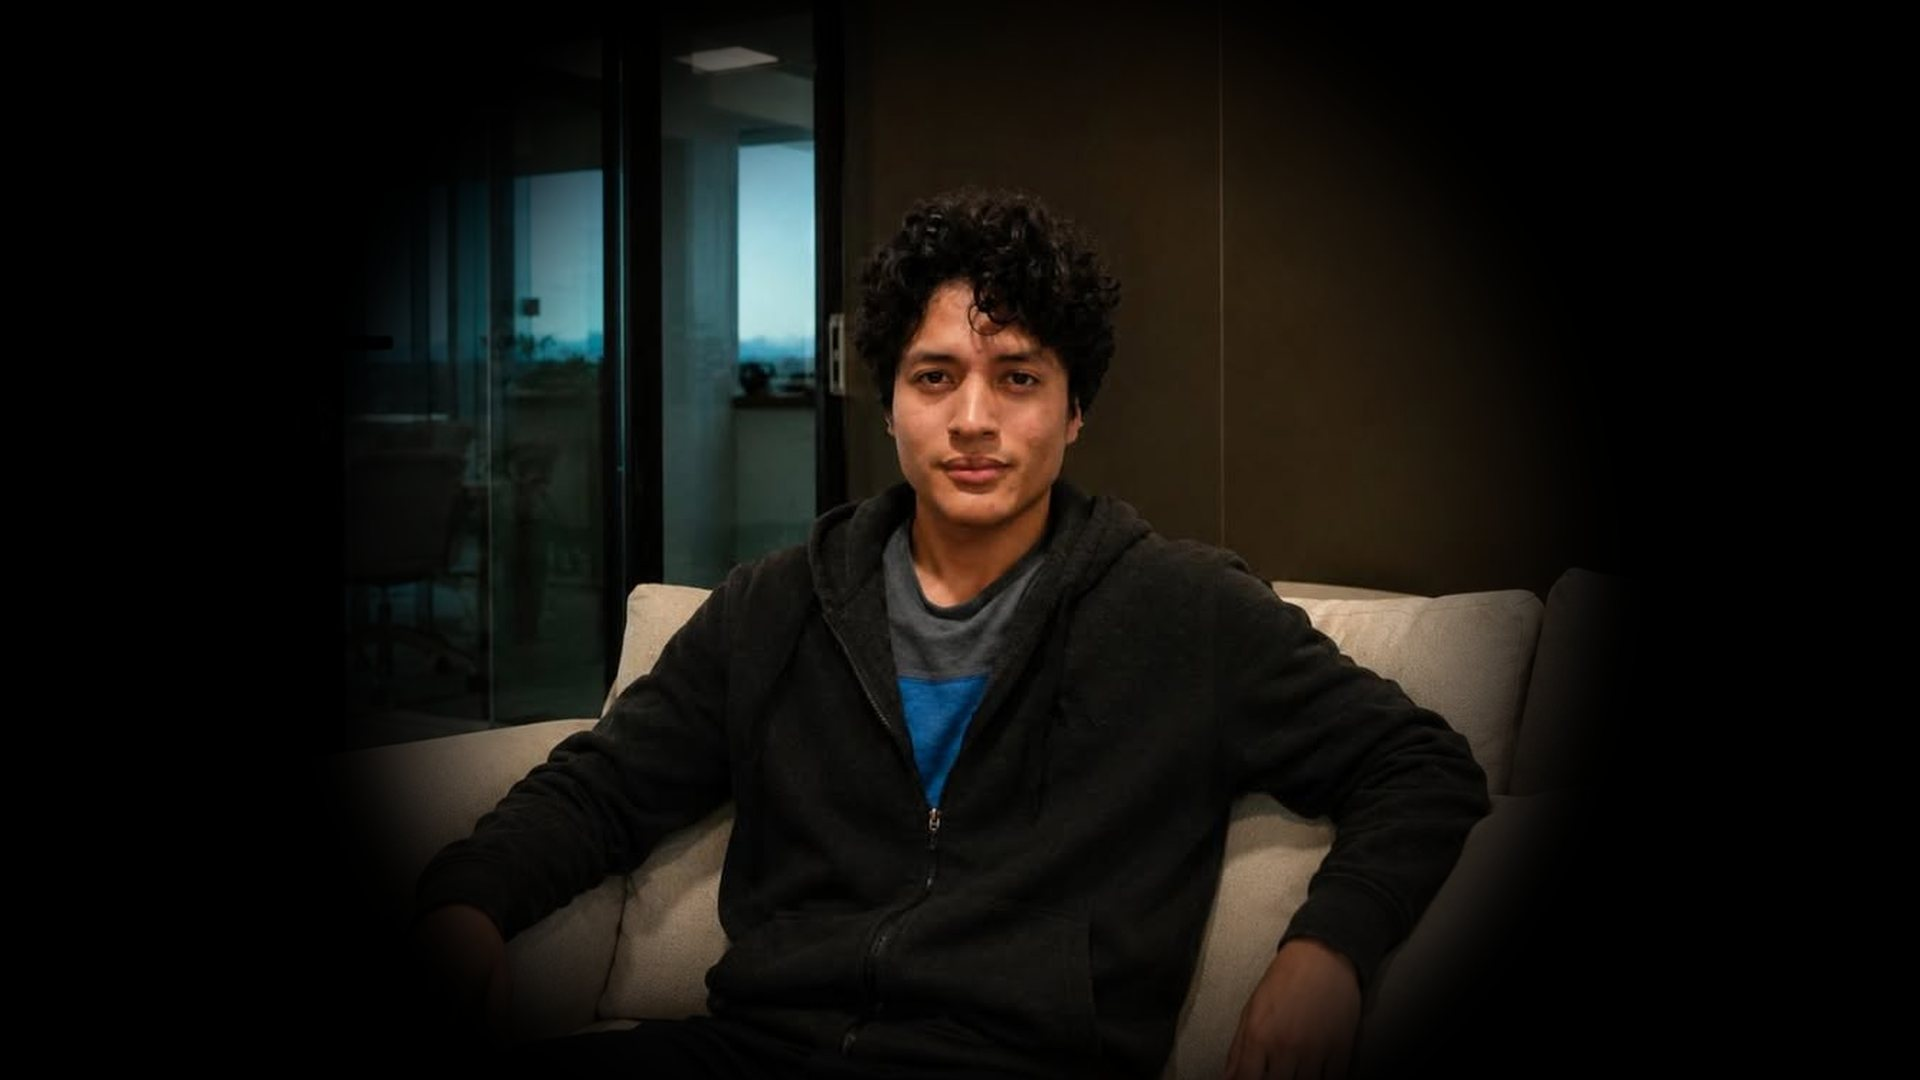
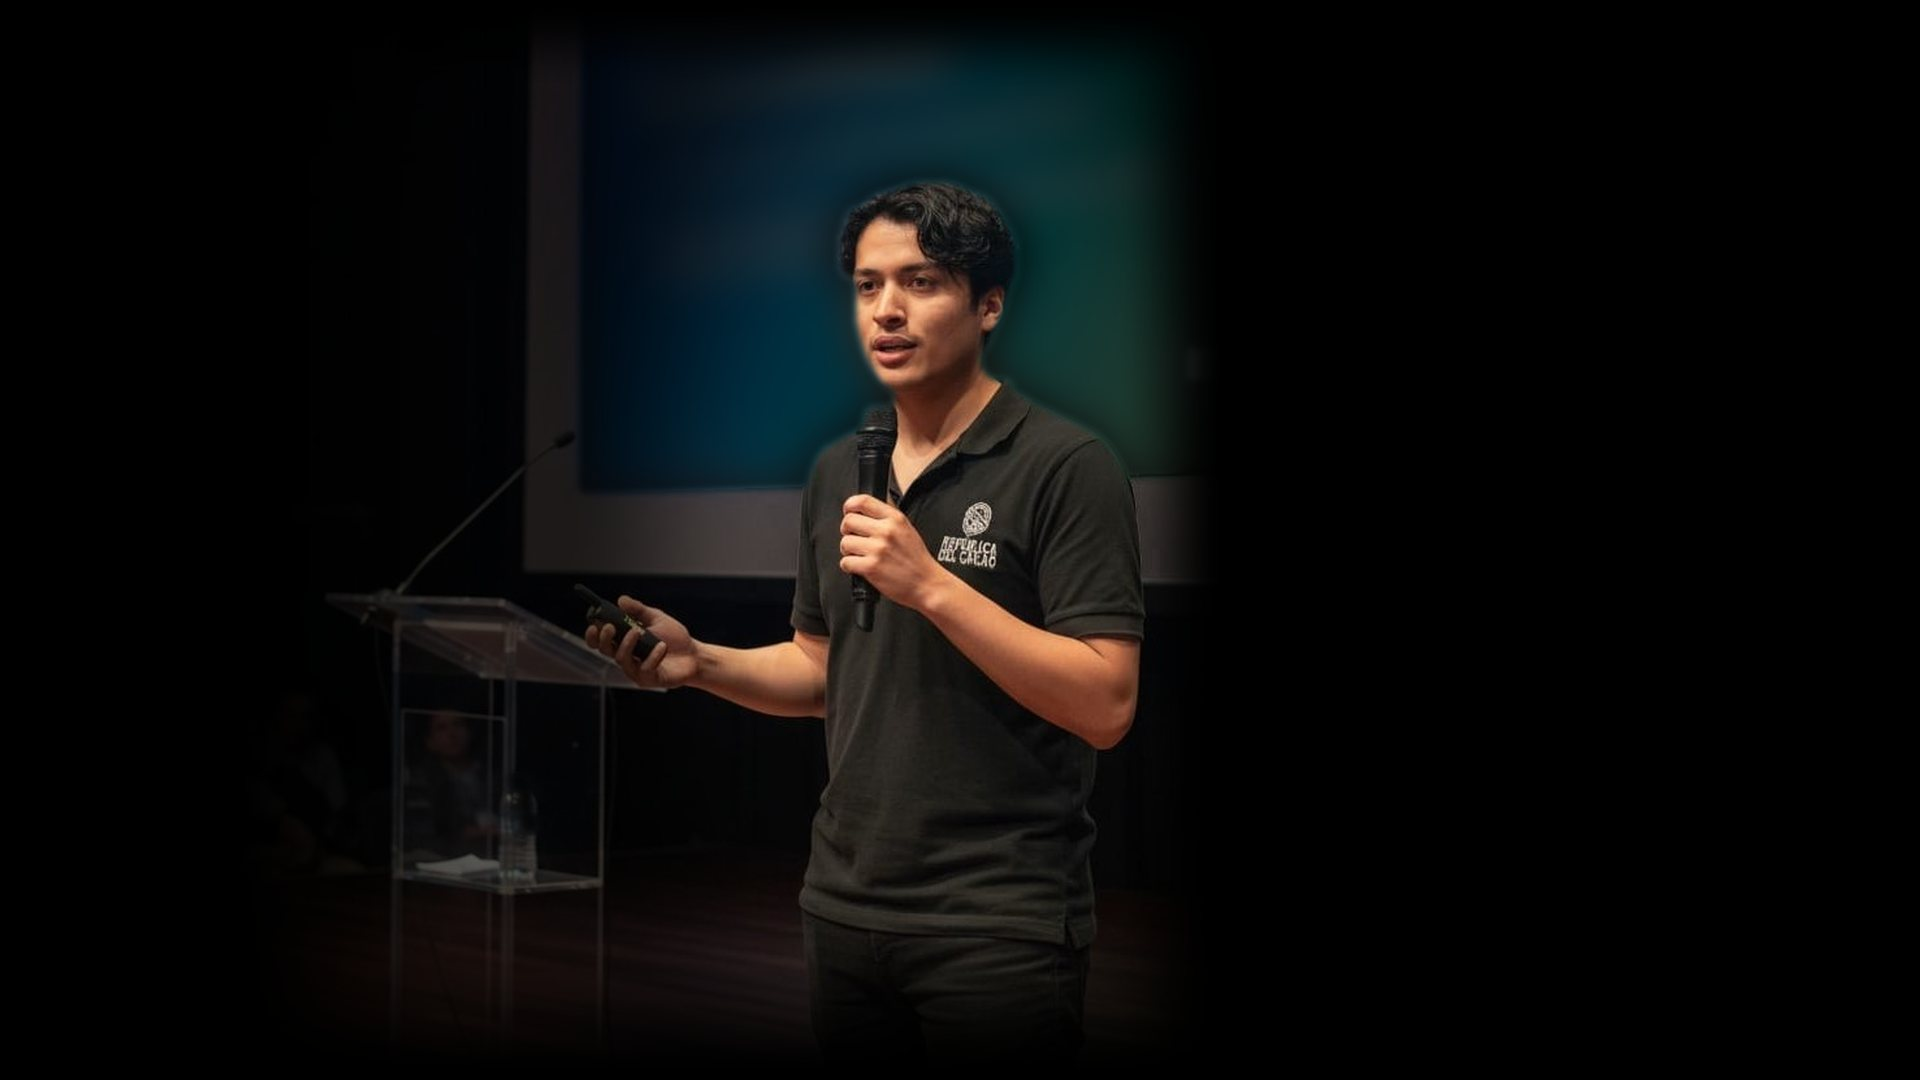
Use the stage photo in the home header
The header portrait is now the stage photo instead of the seated one. The
source could not go in as it was: once the header turns it grey, the
projected slide behind him was the brightest thing in the frame and its
lettering was garbled, so scripts/build-photos.py now edits it on the way in.

The slide is found by colour, blue or green clearly outrunning red, which
skin, hair and the black shirt never do. A morphological closing fills the
white lettering without growing into his hair, and a small dilation takes
in the anti-aliased fringe so no bright outline is left round his head. The
keyed area is blurred and dimmed to about a quarter of its brightness, so
it reads as a soft backdrop.

The pale border below the slide ran behind his hands. It is neutral grey
where skin is warm, so it is keyed on that inside its band and dimmed,
sparing the white logo on his shirt. A spotlight then keeps him at full
brightness and pulls the stage and podium down.

The frame runs from just above his head to the knees, fills the canvas
height, is centred on his body and feathered to black on every edge, so it
still arrives with no boundary of its own and the header's overlays are
unchanged. The generated file drops from 85 KB to 61 KB.

The portrait and speaking outputs regenerate byte for byte. The photos
README, the header comment and CHANGES are updated to match.

Verified: tsc passes, lint is clean on the header, no em dashes in the
[…]

Changed region(s): [[0.1875, 0.0306, 0.8125, 1.0]]

diff --git a/src/components/home/HeroSection.tsx b/src/components/home/HeroSection.tsx
@@ -30,11 +30,11 @@ const fade = {
  * the edge. A circular button sits at the left, contact details sit bottom
  * left under a short dash, and the social marks sit bottom right.
  *
- * The photograph is prepared by scripts/build-photos.py, which composites
- * the seated portrait onto a wide black canvas through a feathered radial
- * mask. The source is vignetted to a hard circle; feathering it means the
- * image arrives with no boundary of its own, so the overlays here only have
- * to darken the columns the type sits in.
+ * The photograph is prepared by scripts/build-photos.py from the stage
+ * photo: the projected slide behind him is keyed out, blurred and dimmed, a
+ * spotlight keeps him lit, and the frame is feathered to black on every edge.
+ * The image arrives with no boundary of its own, so the overlays here only
+ * have to darken the columns the type sits in.
  */
 export default function HeroSection() {
   const t = useTranslations("home.hero");

diff --git a/scripts/build-photos.py b/scripts/build-photos.py
@@ -11,12 +11,13 @@ this after replacing a source photo.
 
 Three outputs:
 
-  eduardo-hero.jpg      Wide canvas for the dark header. The couch portrait is
-                        already vignetted to a circle on black, so extending
-                        that black to a 16:9 canvas gives edges that melt into
-                        the header's dark field with no visible seam. The
-                        subject is nudged above centre because the header's
-                        lower third is covered by the contact rail.
+  eduardo-hero.jpg      Wide canvas for the dark header, from the stage photo.
+                        The projected slide is keyed out by its colour, then
+                        blurred and dimmed so it reads as a soft backdrop
+                        rather than a wall of garbled text; a spotlight keeps
+                        him lit and pulls the stage down; the frame is centred
+                        on him and feathered to black on every edge so it
+                        melts into the header's dark field.
 
   eduardo-portrait.jpg  Square crop of the stage photo, centred on his upper
                         body, for the circular node at the centre of the
@@ -27,6 +28,7 @@ Three outputs:
 """
 
 from pathlib import Path
+import numpy as np
 from PIL import Image, ImageFilter
 
 SRC = Path("D:/job/Eduardo/Img")
@@ -42,49 +44,81 @@ def save(img: Image.Image, name: str, quality: int = 86) -> None:
     print(f"  {name:<24} {img.width}x{img.height}  {kb:6.1f} KB")
 
 
+def _smooth(a: np.ndarray, lo: float, hi: float) -> np.ndarray:
+    """Smoothstep from 0 at lo to 1 at hi."""
+    t = np.clip((a - lo) / (hi - lo), 0, 1)
+    return t * t * (3 - 2 * t)
+
+
+def _blur_mask(a: np.ndarray, radius: float) -> np.ndarray:
+    img = Image.fromarray((a * 255).astype(np.uint8))
+    return np.asarray(img.filter(ImageFilter.GaussianBlur(radius))) / 255.0
+
+
 def build_hero() -> None:
-    """Couch portrait onto a wide black canvas, subject above centre.
+    """Stage photo onto a wide black canvas, the slide behind him subdued.
 
-    The source is already vignetted to a hard-edged circle on black. Pasted
-    straight down that edge stays visible as a curve across the header, so
-    the subject is composited through a radial mask whose falloff is blurred:
-    opaque across the middle of the circle, fading to nothing before the
-    original edge. The photograph then has no boundary of its own and simply
-    dissolves into the header's dark field.
+    Coordinates below are in the 770x1081 source. His head sits around
+    (540, 378) and his body spans roughly x 435-710; the slide fills the
+    upper right down to y 545, with a pale border below it to y 615.
     """
-    src = Image.open(SRC / "Eduardo on couch.jpg").convert("RGB")
+    src = Image.open(SRC / "Eduardo speach.jpg").convert("RGB")
+    w, h = src.size
+    yy, xx = np.mgrid[0:h, 0:w].astype(np.float32)
+    arr = np.asarray(src).astype(np.float32)
+    r, g, b = arr[..., 0], arr[..., 1], arr[..., 2]
 
+    # The slide, found by colour: blue or green clearly outrunning red.
+    # Skin, hair and the black shirt never do. A closing fills the white
+    # lettering without growing into his hair; a small dilation then takes
+    # in the anti-aliased fringe so no bright outline is left round him.
+    key = Image.fromarray((_smooth(np.maximum(b, g) - r, 25, 70) * 255)
+                          .astype(np.uint8))
+    key = (key.filter(ImageFilter.MaxFilter(27))
+              .filter(ImageFilter.MinFilter(27))
+              .filter(ImageFilter.MaxFilter(5))
+              .filter(ImageFilter.GaussianBlur(2.5)))
+    screen = (np.asarray(key) / 255.0)[..., None]
+
+    blurred = np.asarray(src.filter(ImageFilter.GaussianBlur(16)))
+    arr = arr * (1 - screen) + blurred * screen
+    arr *= 1 - 0.72 * screen
+
+    # The slide's pale lower border runs behind his hands. It is neutral
+    # grey where skin is warm, so key on that inside the band, sparing the
+    # white logo on his shirt.
+    neutral = 1 - _smooth(np.abs(r - b), 12, 30)
+    bright = _smooth((r + g + b) / 3, 70, 120)
+    band = (_smooth(yy, 520, 540) * (1 - _smooth(yy, 615, 635))
+            * _smooth(xx, 215, 235))
+    logo = _blur_mask(((xx > 538) & (xx < 608) & (yy > 545) & (yy < 612))
+                      .astype(np.float32), 4)
+    arr *= (1 - 0.6 * neutral * bright * band * (1 - logo))[..., None]
+
+    # Spotlight: full brightness on him, the stage and podium pulled down.
+    d = np.sqrt(((xx - 560) / 250) ** 2 + ((yy - 600) / 480) ** 2)
+    arr *= (0.35 + 0.65 * (1 - _smooth(d, 0.55, 1.2)))[..., None]
+
+    edited = Image.fromarray(np.clip(arr, 0, 255).astype(np.uint8))
+
+    # Crop from just above his head to the knees and fill the canvas height.
+    # He lands high in the frame, clear of the header's bottom rail.
     canvas_w, canvas_h = 1920, 1080
-    scale = 1.28
-    size = int(canvas_h * scale)
-    subject = src.resize((size, size), Image.LANCZOS)
+    top, bottom = 170, 1000
+    scale = canvas_h / (bottom - top)
+    frame = edited.crop((0, top, w, bottom))
+    frame = frame.resize((int(w * scale), canvas_h), Image.LANCZOS)
+    fw, fh = frame.size
 
-    # Radial mask: solid to 60% of the radius, then a gradient out to 92%,
-    # which is inside the source's own circular edge.
-    mask = Image.new("L", (size, size), 0)
-    px = mask.load()
-    cx = cy = size / 2
-    inner, outer = size * 0.30, size * 0.46
-    span = outer - inner
-    for y in range(size):
-        dy = y - cy
-        for x in range(size):
-            d = (dx := x - cx) * dx + dy * dy
-            d = d ** 0.5
-            if d <= inner:
-                px[x, y] = 255
-            elif d >= outer:
-                px[x, y] = 0
-            else:
-                px[x, y] = int(255 * (1 - (d - inner) / span))
-    mask = mask.filter(ImageFilter.GaussianBlur(size * 0.02))
+    # Feather every edge of the frame so it has no boundary of its own.
+    fy, fx = np.mgrid[0:fh, 0:fw].astype(np.float32)
+    alpha = (_smooth(fx, 0, 260) * (1 - _smooth(fx, fw - 110, fw))
+             * _smooth(fy, 0, 90) * (1 - _smooth(fy, fh - 160, fh)))
+    mask = Image.fromarray((alpha * 255).astype(np.uint8))
 
     canvas = Image.new("RGB", (canvas_w, canvas_h), (0, 0, 0))
-    x = (canvas_w - size) // 2
-    # Sit him higher than centre: the header's bottom rail covers the lower
-    # third, and the reference frames its subject high as well.
-    y = int((canvas_h - size) * 0.42)
-    canvas.paste(subject, (x, y), mask)
+    # Centre his body (x ~565 in the source) on the canvas.
+    canvas.paste(frame, (int(canvas_w / 2 - 565 * scale), 0), mask)
 
     save(canvas, "eduardo-hero.jpg", quality=84)
 

diff --git a/docs/CHANGES.md b/docs/CHANGES.md
@@ -2,6 +2,25 @@
 
 Documents major changes made to this project.
 
+## 2026-09-12 Stage photo in the home header
+
+The header portrait is now the stage photo (`Eduardo speach.jpg`) instead of
+the couch portrait. The source needed editing to work behind the header's
+type, all done in `scripts/build-photos.py`:
+
+- The projected slide is found by its blue-green colour, then blurred and
+  dimmed to about a quarter of its brightness. Its lettering was garbled and
+  it outshone his face once the header turned it grey.
+- The pale border below the slide, which ran behind his hands, is dimmed too.
+- A spotlight keeps him at full brightness and pulls the stage and podium
+  down.
+- The frame is cropped from above his head to the knees, centred on his body
+  and feathered to black on every edge.
+
+No component changes beyond the comment describing the photo.
+
+---
+
 ## 2026-09-12 Migrated to the portfolio repository
 
 The project now lives at `github.com/EduardoShande/portfolio`. The full

diff --git a/public/photos/README.md b/public/photos/README.md
@@ -11,7 +11,7 @@ Re-run that after replacing a source photo and the site picks up the result.
 
 | Generated file          | Source                  | Used by                          |
 |-------------------------|-------------------------|----------------------------------|
-| `eduardo-hero.jpg`      | `Eduardo on couch.jpg`  | The dark header on the home page |
+| `eduardo-hero.jpg`      | `Eduardo speach.jpg`    | The dark header on the home page |
 | `eduardo-portrait.jpg`  | `Eduardo speach.jpg`    | The centre of the capability orbit on /about |
 | `eduardo-speaking.jpg`  | `Eduardo speach.jpg`    | Spare, resized for the web       |
 
